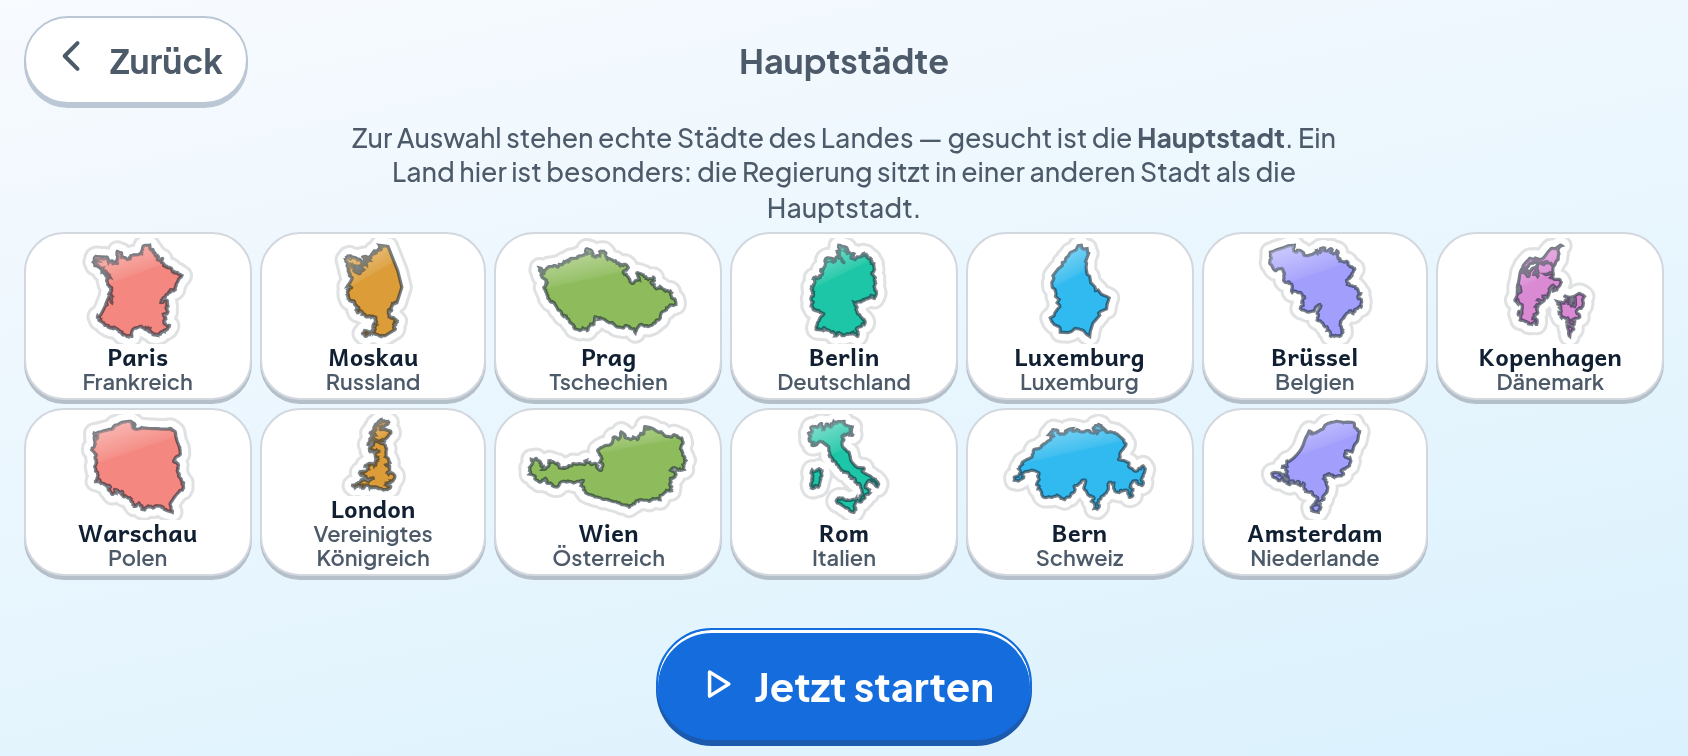
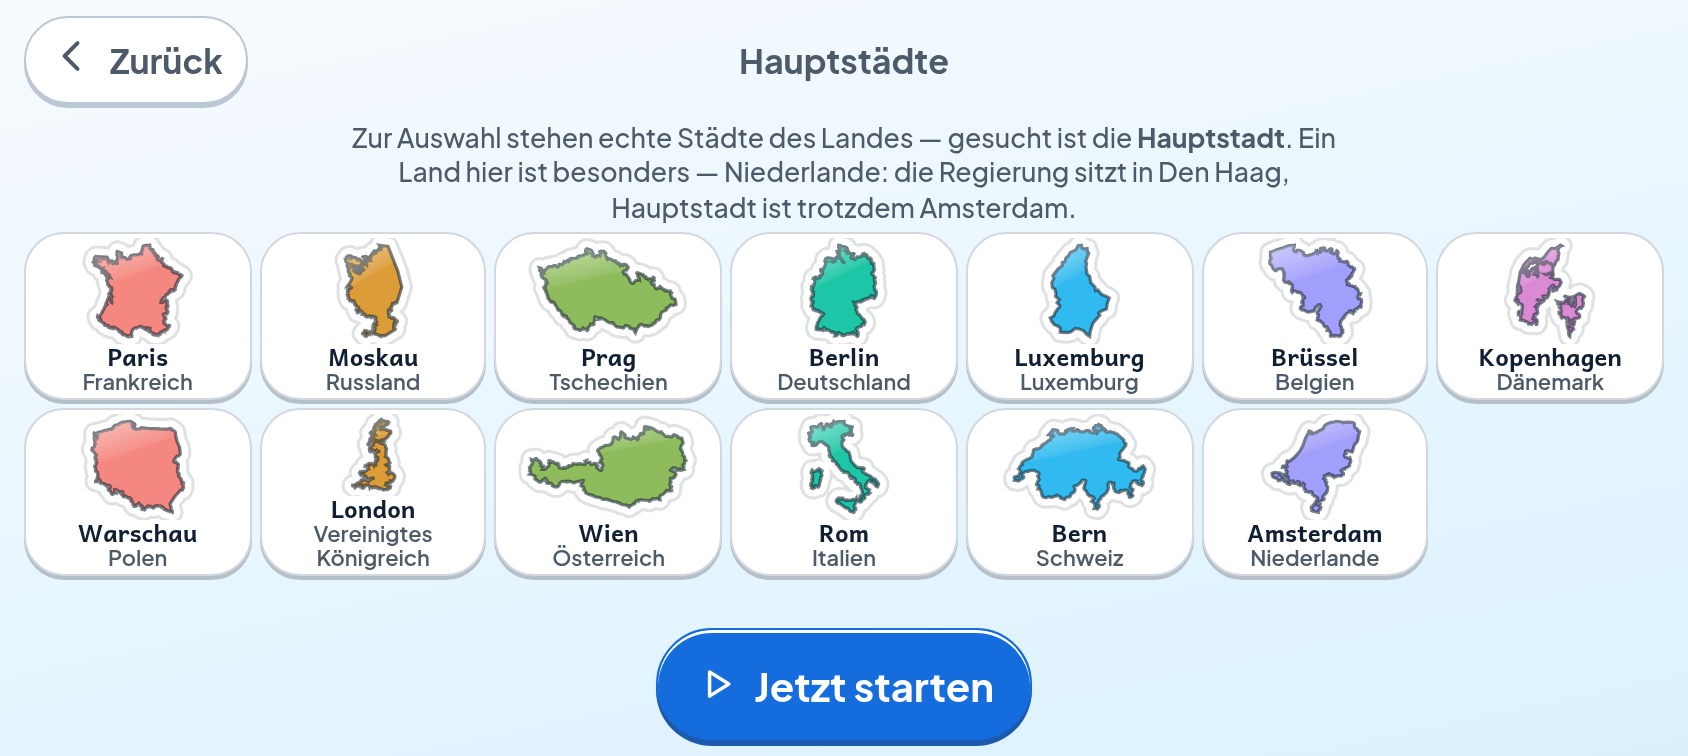
I19: der Vorlaufsatz zaehlt - "ein Land" war auf drei von acht Karten falsch
Der Satz der Hauptstadt-Ebenen wird seit I14 abgeleitet statt geschrieben.
Er hing an `liste.some(l => l.falle)` - an einem OB, nicht an einem
WIEVIEL - und sagte auf allen acht Karten "Ein Land hier ist besonders".
Asien hat zwei (Malaysia, Sri Lanka), Afrika zwei (Elfenbeinkueste, Benin),
Suedamerika zwei (Chile, Bolivien). Dieselbe Falle wie in I14, nur eine
Ebene weiter - und nicht zu sehen: im Bild steht ein plausibler Satz.

Er zaehlt jetzt und nennt sie beim Namen. Bei EINEM Land steht das
Besondere ganz da, mit beiden Staedten ("Ein Land hier ist besonders -
Niederlande: die Regierung sitzt in Den Haag, Hauptstadt ist trotzdem
Amsterdam"), bei zweien nur die Namen - zwei ganze Faelle waeren ein
Absatz statt eines Satzes, und einen Vorlauf, den niemand zu Ende liest,
gibt es nicht.

Der Ort steht hinter einem Gedankenstrich und nicht hinter einer
Praeposition: "in Niederlande" waere falsch, "in den Niederlanden"
braeuchte Artikel und Fall je Land - eine Auskunft, die in den Daten
nicht steht.

Gemessen an drei Stellen, weil eine Zaehlung mit einem Bild nicht zu
beweisen ist: `inhalt` haelt die Zahl der abweichenden Regierungssitze je
Karte fest (genau, nicht als Ratsche - hier zaehlt auch das Wachsen) und
verlangt fuer jeden beide Staedte; eine dritte Aufnahme zeigt die Karte
mit ZWEIEN; und die dritte Gegenprobe verfaelscht die ZAHL statt den Satz
wegzunehmen.

Claude-Session: https://claude.ai/code/session_01GwecUQxeRqJxKHLkGsVrjv

Changed region(s): [[0.2156, 0.213, 0.7701, 0.3042]]

diff --git a/prototyp/spiel.js b/prototyp/spiel.js
@@ -703,6 +703,12 @@ function sagen(text){ if (!P || ton().spricht) vorlesen(text); }
    AUFZAEHLUNG mit „und" („Kaenguru, Koala und Schlange"). Der erste
    Anlauf hatte nur „oder" und sagte damit „das Kaenguru, der Koala ODER
    die Schlange" ueber drei Tiere, die man alle drei bekommt. */
+/* Zahlwörter bis fünf, für Sätze, in denen eine Ziffer stören würde
+   („2 Länder hier sind besonders"). Darüber gibt es nichts zu schreiben:
+   der Aufruf fällt auf die Zahl zurück, und mehr als fünf abweichende
+   Regierungssitze auf EINER Karte hätte ohnehin einen anderen Satz
+   verdient. */
+const ZAHLWORT = [null, 'Ein', 'Zwei', 'Drei', 'Vier', 'Fünf'];
 const aufzaehlen = (namen, wort = 'oder') => namen.length < 2 ? (namen[0] || '')
   : namen.slice(0, -1).join(', ') + ` ${wort} ` + namen[namen.length - 1];
 
@@ -4017,14 +4023,38 @@ function vorlaufSatz(ebeneId){
 
      Der Zusatz hängt an `falle`, und `falle` hängt an `regierungssitz`
      aus den gebackenen Daten (Niederlande: Den Haag). Damit sagt der Satz
-     genau das, was in den Daten steht — nicht mehr. */
+     genau das, was in den Daten steht — nicht mehr.
+
+     Seit I19 zählt er sie AUCH und nennt sie beim Namen. „Ein Land hier
+     ist besonders" stand auf allen acht Karten — und war auf dreien
+     falsch: Asien hat zwei (Malaysia, Sri Lanka), Afrika zwei
+     (Elfenbeinküste, Benin), Südamerika zwei (Chile, Bolivien). Genau
+     dieselbe Falle wie in I14, nur eine Ebene weiter: ein Satz, der für
+     die erste Karte geschrieben wurde und den die zweite still zur Lüge
+     macht.
+
+     Und bei EINEM Land steht das Besondere ganz da, mit beiden Städten —
+     bei zweien wäre das ein Absatz statt eines Satzes, und ein Vorlauf,
+     den niemand zu Ende liest, ist keiner. */
   if (art === 'hauptstaedte' && kont) {
     const liste = D.laender[karteVon(ebeneId)] || [];
-    return 'Zur Auswahl stehen echte Städte des Landes — gesucht ist die '
-      + '<strong>Hauptstadt</strong>.'
-      + (liste.some(l => l.falle)
-         ? ' Ein Land hier ist besonders: die Regierung sitzt in einer '
-           + 'anderen Stadt als die Hauptstadt.' : '');
+    const besonders = liste.filter(l => l.hauptstadt && l.falle && l.regierungssitz);
+    const basis = 'Zur Auswahl stehen echte Städte des Landes — gesucht ist die '
+      + '<strong>Hauptstadt</strong>.';
+    if (!besonders.length) return basis;
+    if (besonders.length === 1) {
+      const l = besonders[0];
+      /* Der Ländername steht hinter einem Gedankenstrich und nicht hinter
+         einer Präposition: „in Niederlande" wäre falsch, „in den
+         Niederlanden" bräuchte den Artikel und den Fall je Land. Ein
+         gebeugter Ländername ist eine Auskunft, die in den Daten nicht
+         steht — und was nicht dasteht, wird hier nicht erfunden. */
+      return `${basis} Ein Land hier ist besonders — ${l.name}: die Regierung `
+        + `sitzt in ${l.regierungssitz}, Hauptstadt ist trotzdem ${l.hauptstadt}.`;
+    }
+    return `${basis} ${ZAHLWORT[besonders.length] || besonders.length} Länder hier `
+      + `sind besonders — ${aufzaehlen(besonders.map(l => l.name), 'und')}: dort `
+      + 'sitzt die Regierung in einer anderen Stadt als der Hauptstadt.';
   }
   if (art === 'hauptstaedte')
     return 'Berlin, Hamburg und Bremen fehlen hier: sie sind <strong>Stadtstaaten</strong>, '

diff --git a/docs/Lernkiste-AUDIT-INHALT.md b/docs/Lernkiste-AUDIT-INHALT.md
@@ -989,6 +989,52 @@ auf, ihre Zeilen einzeln, und was danach kommt, rückt um die verbrauchten
 Takte nach hinten. Die Reihenfolge ist damit dieselbe wie vor dem Umbau —
 nachgemessen: Sterne nach 0 ms, die Zahl nach 270 ms.
 
+### I19 · „Ein Land hier ist besonders" — auf dreien von acht Karten falsch — **gebaut (v581)**
+
+Der Vorlaufsatz der Hauptstadt-Ebenen wird seit I14 abgeleitet statt
+geschrieben. Er sagte: *„Ein Land hier ist besonders: die Regierung sitzt in
+einer anderen Stadt als die Hauptstadt."* Das hing an `liste.some(l =>
+l.falle)` — an einem **Ob**, nicht an einem **Wieviel**. Und die Zahl stimmt
+auf drei der acht Karten nicht:
+
+| Karte | Länder mit abweichendem Regierungssitz |
+|---|---|
+| Asien | 2 — Malaysia (Putrajaya), Sri Lanka (Sri Jayewardenepura Kotte) |
+| Afrika | 2 — Elfenbeinküste (Abidjan), Benin (Cotonou) |
+| Südamerika | 2 — Chile (Valparaíso), Bolivien (La Paz) |
+| Europa | 1 — Niederlande (Den Haag) |
+| Südosteuropa · Nordamerika · Mittelamerika · Ozeanien | 0 |
+
+Genau dieselbe Falle wie in I14, nur eine Ebene weiter: ein Satz, der für die
+erste Karte geschrieben wurde und den die zweite still zur Lüge macht. Und er
+ist **nicht zu sehen** — im Bild steht ein plausibler deutscher Satz.
+
+Der Satz zählt jetzt und nennt sie beim Namen. Bei **einem** Land steht das
+Besondere ganz da, mit beiden Städten: *„Ein Land hier ist besonders —
+Niederlande: die Regierung sitzt in Den Haag, Hauptstadt ist trotzdem
+Amsterdam."* Bei **zweien** wäre das ein Absatz statt eines Satzes, deshalb
+nur die Namen: *„Zwei Länder hier sind besonders — Malaysia und Sri Lanka:
+dort sitzt die Regierung in einer anderen Stadt als der Hauptstadt."*
+
+Der Ländername steht hinter einem Gedankenstrich und nicht hinter einer
+Präposition. „in Niederlande" wäre falsch, „in den Niederlanden" bräuchte
+Artikel und Fall je Land — eine Auskunft, die in den Daten nicht steht.
+
+**Gemessen wird es an drei Stellen**, weil eine Zählung mit einem Bild nicht
+zu beweisen ist:
+
+- `inhalt` hält die Zahl der abweichenden Regierungssitze **je Karte** fest —
+  als *genaue* Zahl, nicht als Ratsche: hier zählt auch das Wachsen, denn ein
+  Sitz, der dazukommt, macht den Satz genauso falsch wie einer, der wegfällt.
+  Und jeder von ihnen braucht beide Städte, sonst stünde dort ein Halbsatz.
+- Drei Aufnahmen statt zwei: Südosteuropa (keine), Europa (eine), **Asien
+  (zwei, neu)**. Mit zweien allein wäre nur zu sehen, *dass* gezählt wird,
+  nicht wie weit.
+- Drei Gegenproben: der Nachsatz erscheint, wo keiner hingehört; er
+  verschwindet, wo einer hingehört; und die Karte mit zweien nennt nur eine.
+  Die dritte ist die eigentliche I19-Probe — ein Eingriff, der den Satz
+  *wegnimmt*, hätte den Fehler nie gefunden.
+
 ## Das Werkzeug
 
 `npm run vielfalt` misst die Tabelle oben bei jedem Lauf neu. Es lädt die
